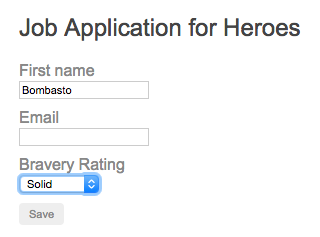
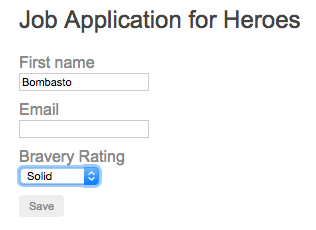
docs(cb-dynamic-form): Converted divs to labels in form

Changed region(s): [[0.057, 0.2435, 0.4842, 0.8522], [0.057, 0.0304, 0.9684, 0.1826], [0.0854, 0.8826, 0.1709, 0.9435]]

diff --git a/public/docs/_examples/cb-dynamic-form/ts/app/dynamic-form-question.component.html b/public/docs/_examples/cb-dynamic-form/ts/app/dynamic-form-question.component.html
@@ -1,13 +1,13 @@
 <!-- #docregion -->
 <div [ngFormModel]="form">
-  <div class="formHeading">{{question.label}}</div>
+  <label [attr.for]="question.key">{{question.label}}</label>
 
   <div [ngSwitch]="question.controlType">
 
-    <input *ngSwitchWhen="'textbox'"   [ngControl]="question.key"
+    <input *ngSwitchWhen="'textbox'" [ngControl]="question.key"
             [id]="question.key" [type]="question.type">
 
-    <select *ngSwitchWhen="'dropdown'" [ngControl]="question.key">
+    <select [id]="question.key" *ngSwitchWhen="'dropdown'" [ngControl]="question.key">
       <option *ngFor="#opt of question.options" [value]="opt.key">{{opt.value}}</option>
     </select>
 
